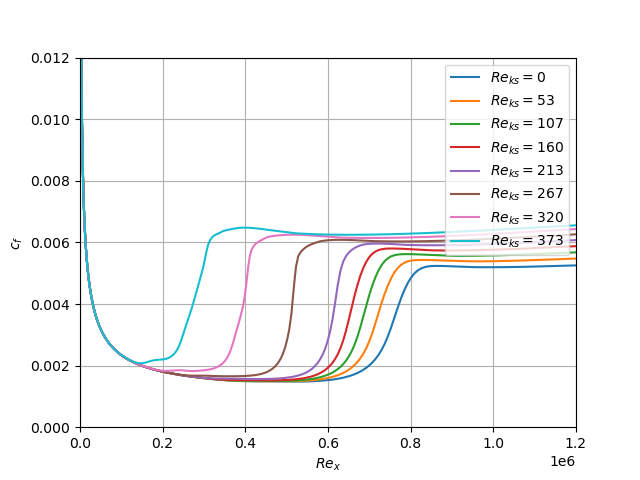
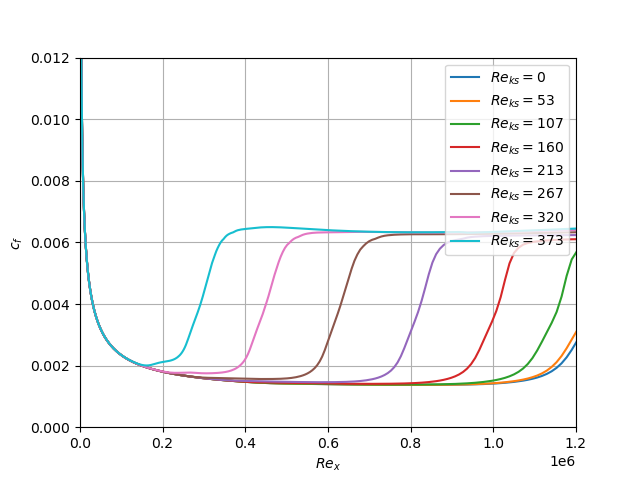
Add factor 10*b to FAr for Kozulovic2022 model

Changed region(s): [[0.2188, 0.4688, 0.9062, 0.8125], [0.8438, 0.625, 0.9062, 0.75], [0.75, 0.625, 0.7812, 0.7188]]

diff --git a/turbulenceModels/RAS/kOmegaSSTLMRough/kOmegaSSTLMRough.C b/turbulenceModels/RAS/kOmegaSSTLMRough/kOmegaSSTLMRough.C
@@ -665,6 +665,10 @@ void kOmegaSSTLMRough<BasicTurbulenceModel>::correctReThetatGammaInt()
                             :
                             0.24*Ar_[celli] - 9.05094
                         );
+
+			// Factor 10*b added by Furst, 2025
+			scalar b = sqr(0.5*sin(M_PI*min((ReThetat_[celli] - 97)/155, 0.5)) + 0.5);
+                        FAr[celli] *= 10*b;
                     }
                 }
                 break;
